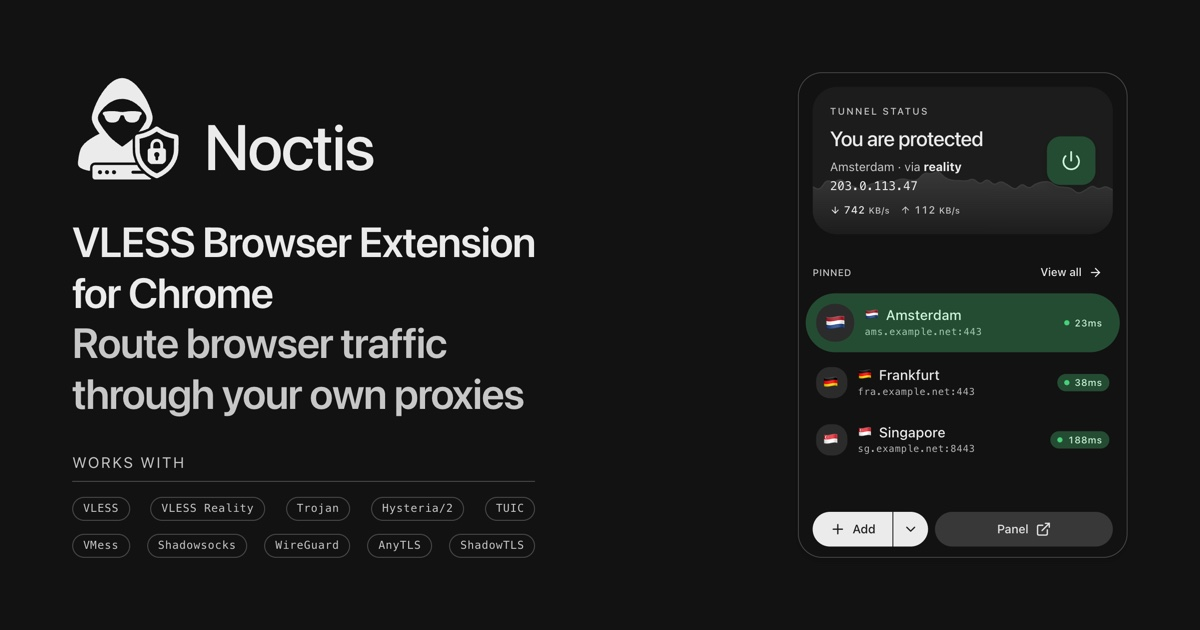
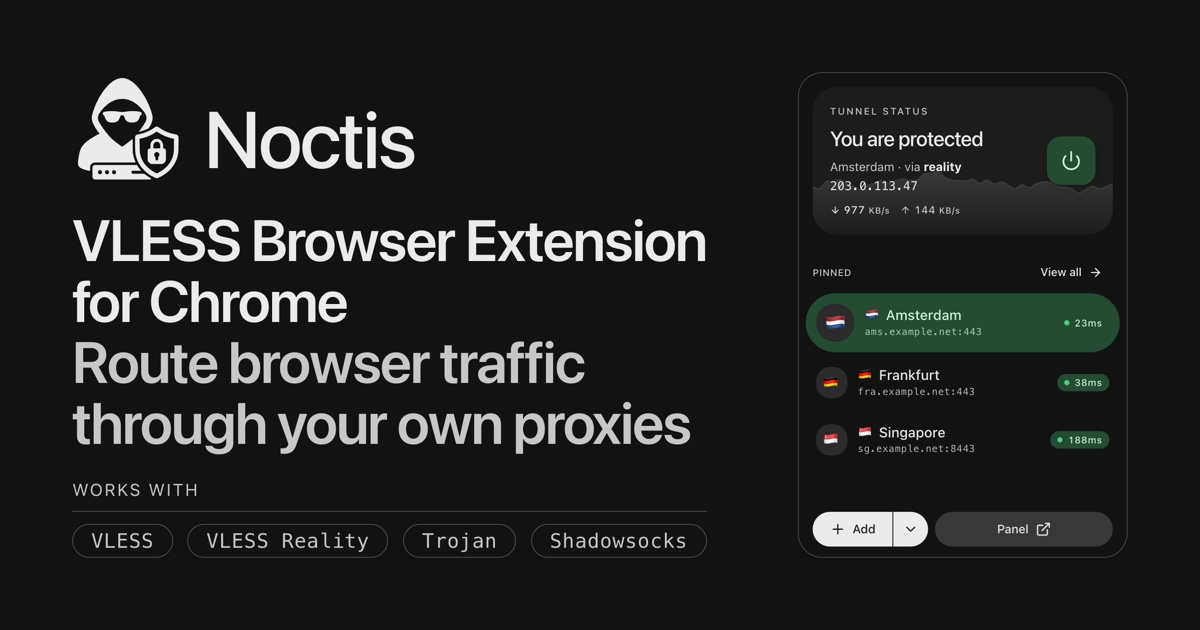
release(0.3.7): og card retypeset at the original scale
### Features
- The social preview card is retypeset at the original banner's type scale - larger wordmark and headline, feature-sized protocol pills trimmed to the headliners.

Changed region(s): [[0.0617, 0.3317, 0.5858, 0.8746], [0.1542, 0.181, 0.37, 0.2714]]

diff --git a/site/src/i18n/seo.ts b/site/src/i18n/seo.ts
@@ -14,7 +14,7 @@ const WEBSTORE_URL =
 const GITHUB_ORG = 'https://github.com/c0nn3ct-info';
 // Scrapers (Telegram etc.) cache the preview image by URL - bump when
 // og-preview.jpg is redesigned so they re-fetch it.
-const OG_IMAGE = `${ORIGIN}/og-preview.jpg?v=2`;
+const OG_IMAGE = `${ORIGIN}/og-preview.jpg?v=3`;
 
 const DICT: Record<Locale, Record<string, string>> = {
   en,